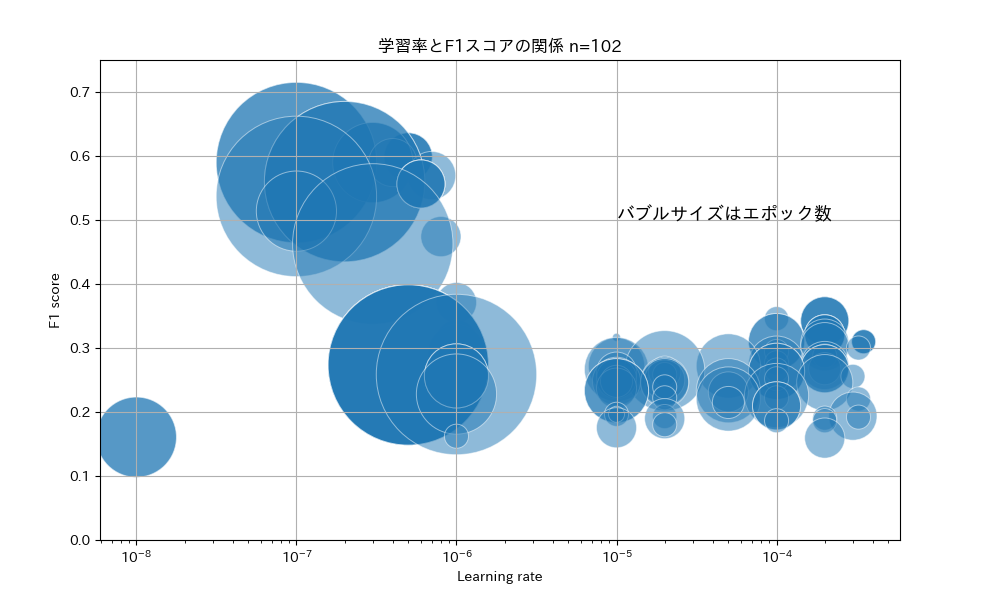
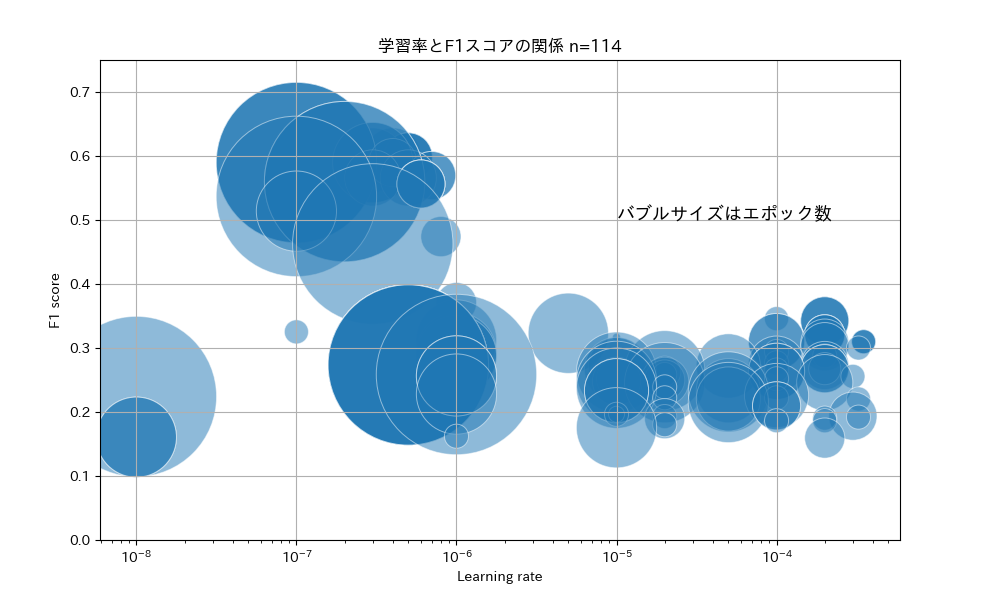
plot: save scatter plots in a dedicated directory and update data source

diff --git a/llll/makegrp/makegrp_lim.py b/llll/makegrp/makegrp_lim.py
@@ -10,20 +10,21 @@ def load_data(file_path):
 
 def create_bubble_scatter_plot(data):
     plt.figure(figsize=(10, 6))
-    plt.scatter(data['learning_rate'], data['f1'], s=(((data['epoch']*10)**2)/3), alpha=0.5, edgecolors='w', linewidth=0.7)
+    
+    plt.scatter(data['learning_rate'], data['f1'], s=(((data['epoch']*10)**2)/3), alpha=0.4, edgecolors='w')
     plt.xscale('log')
     plt.xlim(5e-8, 2e-6)
     plt.ylim(0, 0.75)
     print(len(data))
     plt.title(f'学習率とF1スコアの関係 n={len(data)}')
     plt.subplots_adjust(left=0.1, right=0.9, top=0.9, bottom=0.1)
-    plt.text(7e-8, 0.1, f'バブルサイズはエポック数\n軸 (5E-8 ~ 2E-6, 0 ~ 0.75)', fontsize=12, color='black', weight='bold')
+    plt.text(7e-8, 0.1, 'バブルサイズは({エポック数}*10**2)/3\n軸 (5E-8 ~ 2E-6, 0 ~ 0.75)\n', fontsize=12, color='black', weight='bold')
     plt.xlabel('Learning rate')
     plt.ylabel('F1 score')
     plt.grid(True)
-    plt.savefig('./bubble_scatter_plot_lim.png')
+    plt.savefig('./plot/bubble_scatter_plot_lim.png')
 
 
 if __name__ == "__main__":
-    data = load_data('./bbbbb.csv')
+    data = load_data('./extracted_data.csv')
     create_bubble_scatter_plot(data)

diff --git a/llll/makegrp/makegrp_all.py b/llll/makegrp/makegrp_all.py
@@ -10,6 +10,7 @@ def load_data(file_path):
 
 def create_bubble_scatter_plot(data):
     plt.figure(figsize=(10, 6))
+
     plt.scatter(data['learning_rate'], data['f1'], s=(((data['epoch']*10)**2)/3), alpha=0.5, edgecolors='w', linewidth=0.7)
     plt.xscale('log')
     plt.ylim(0, 0.75)
@@ -20,9 +21,9 @@ def create_bubble_scatter_plot(data):
     plt.xlabel('Learning rate')
     plt.ylabel('F1 score')
     plt.grid(True)
-    plt.savefig('./bubble_scatter_plot_all.png')
+    plt.savefig('./plot/bubble_scatter_plot_all.png')
 
 
 if __name__ == "__main__":
-    data = load_data('./bbbbb.csv')
+    data = load_data('./extracted_data.csv')
     create_bubble_scatter_plot(data)
